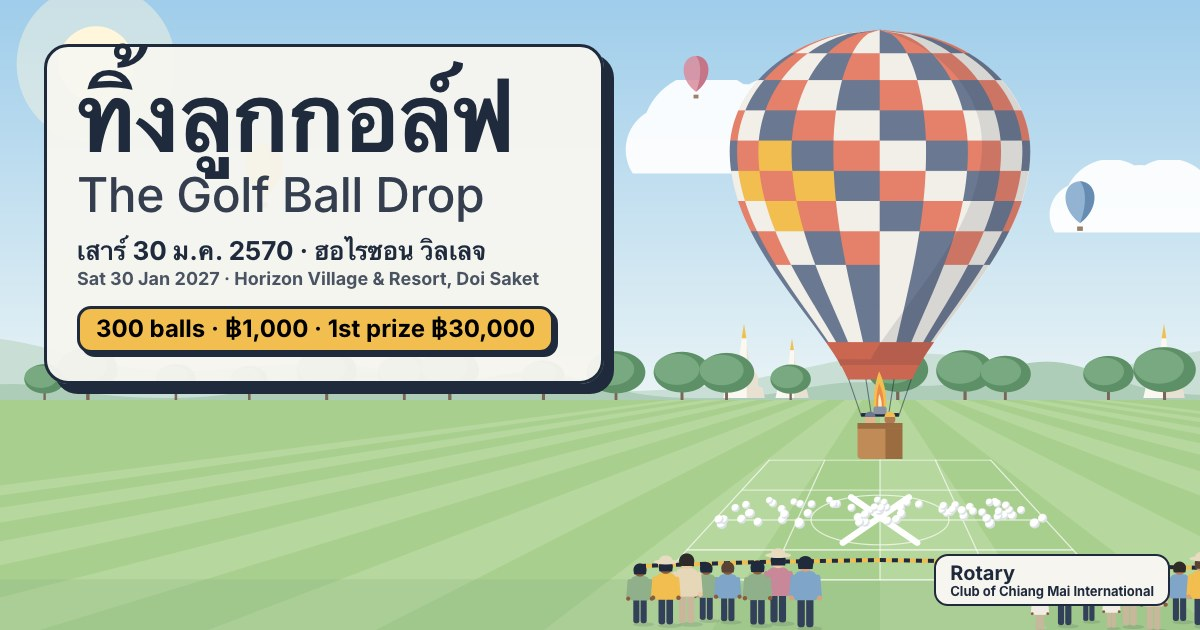
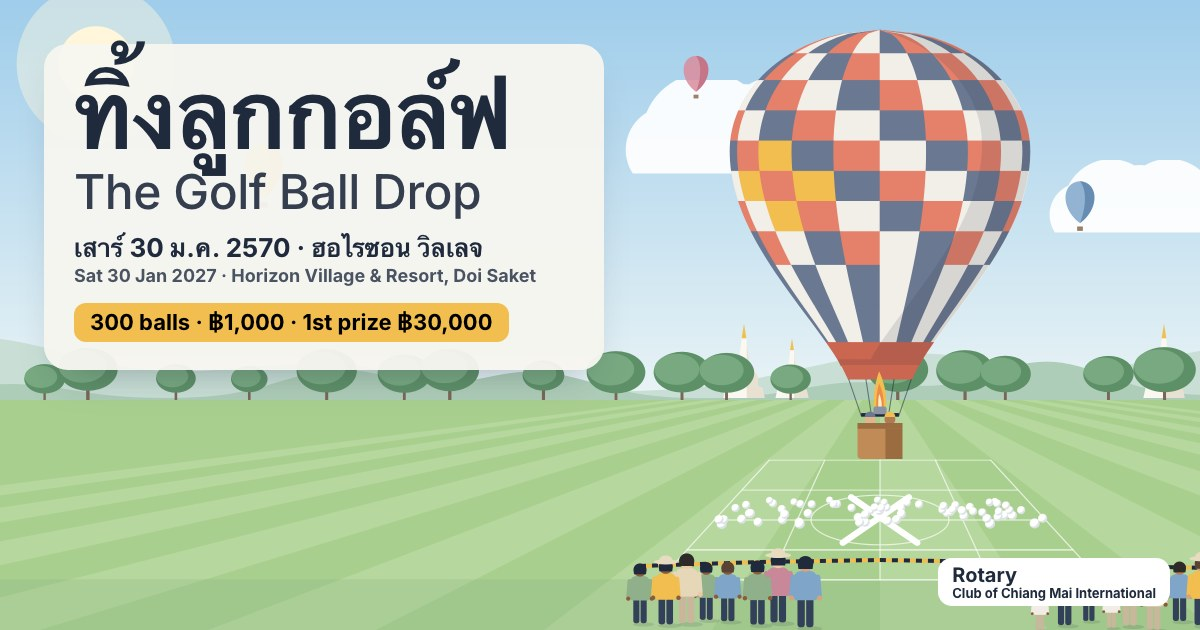
Share card: flat panels

Changed region(s): [[0.0308, 0.0603, 0.5242, 0.6333], [0.7708, 0.8746, 0.9867, 0.9651]]

diff --git a/dev/card.html b/dev/card.html
@@ -4,13 +4,13 @@
 <style>
 html,body{margin:0;width:1200px;height:630px;overflow:hidden;background:var(--paper)}
 #cv{position:absolute;inset:0;width:1200px;height:630px}
-.card{position:absolute;left:44px;top:44px;width:560px;padding:26px 30px 28px;background:color-mix(in srgb,var(--paper) 95%,transparent);border:3px solid var(--key);border-radius:24px;box-shadow:10px 10px 0 var(--key)}
+.card{position:absolute;left:44px;top:44px;width:560px;padding:26px 30px 28px;background:color-mix(in srgb,var(--paper) 95%,transparent);border:0;border-radius:24px;box-shadow:0 20px 40px -20px rgba(31,42,61,.35)}
 .card h1{font-size:96px;line-height:.92;margin:0}
 .card h1 .en{display:block;font-size:46px;margin-top:6px;color:var(--key);text-shadow:none;opacity:.9}
 .when{margin-top:18px;font:700 26px/1.25 Inter,sans-serif;color:var(--text)}
 .when small{display:block;font-size:18px;font-weight:700;opacity:.8}
-.tag{display:inline-block;margin-top:16px;padding:6px 16px;border:3px solid var(--key);border-radius:14px;background:var(--sun);color:#000;font:800 24px/1.2 Inter,sans-serif;box-shadow:4px 4px 0 var(--key)}
-.club{position:absolute;right:30px;bottom:24px;padding:6px 14px;border:2.5px solid var(--key);border-radius:14px;background:var(--paper);font:800 20px/1.1 Inter,sans-serif;color:var(--key)}
+.tag{display:inline-block;margin-top:16px;padding:6px 16px;border:0;border-radius:12px;background:var(--sun);color:#000;font:700 22px/1.2 Inter,sans-serif}
+.club{position:absolute;right:30px;bottom:24px;padding:6px 14px;border:0;border-radius:14px;background:#fff;font:800 20px/1.1 Inter,sans-serif;color:var(--key)}
 .club small{display:block;font-size:13px}
 </style></head><body>
 <canvas id="cv"></canvas>
